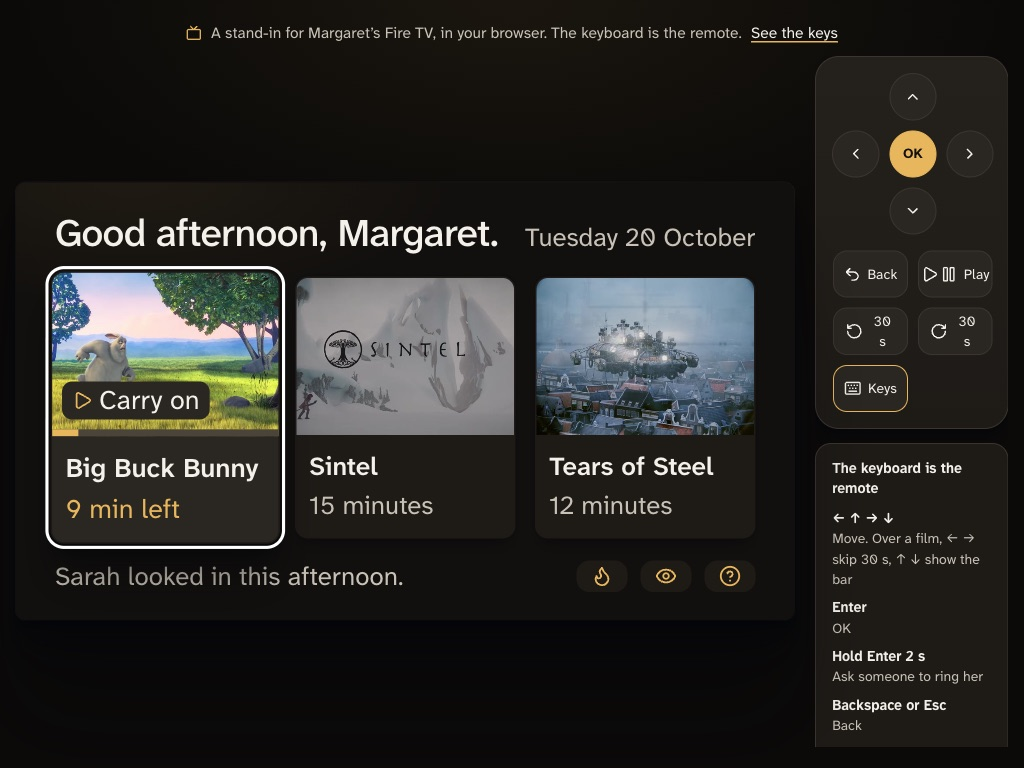
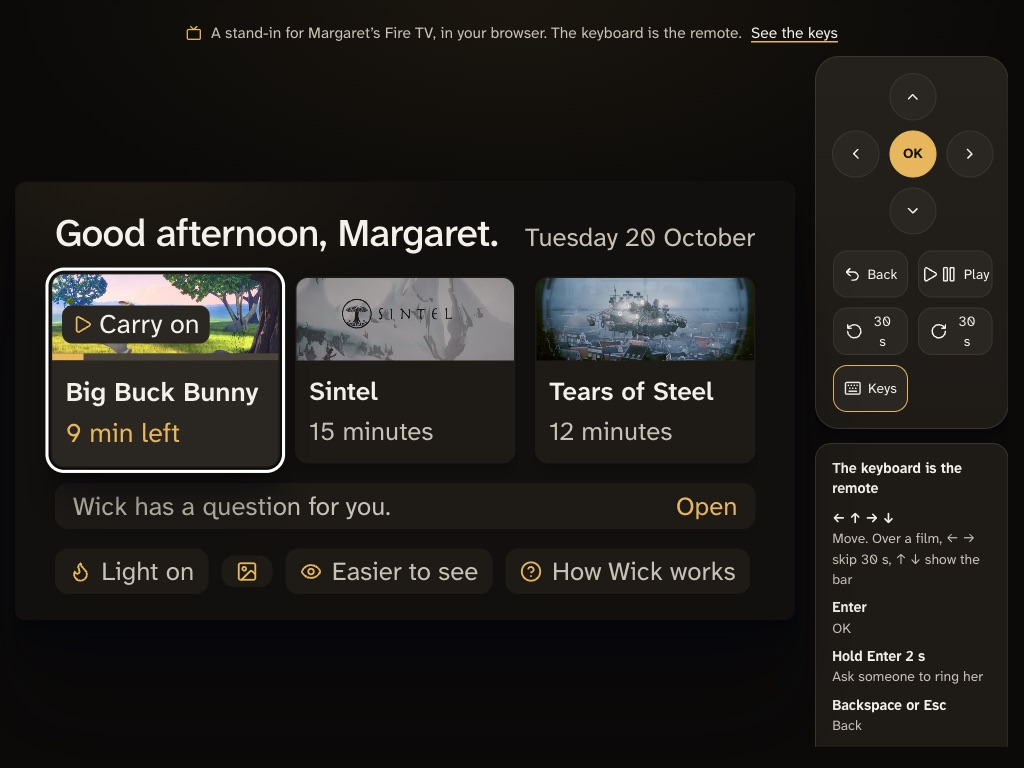
fix(browser-tv): the quiet line under the films is never cut — a row of its own, and the pills give their words way one at a time
Lead review of #145: at 1440 "Sarah looked in this after…" was cut with an
ellipsis, and the light and Easier-to-see pills had lost their words. As the Vega
HomeScreen does on the redesign: the quiet line (who looked in, or what is
waiting) has a row of its own and wraps rather than being cut; the pills have
theirs, each with its words while the row has room, giving them way one at a
time in homeLayout.ts PILL_WORDS_GIVE_WAY's order (mantelpiece, light, Easier to
see, tour) and showing them again with the focus; every pill keeps its
aria-label. Tests: the quiet line's rules carry no ellipsis, clamp or nowrap,
and it sits on its own row above the pills. Screenshots replaced.

Changed region(s): [[0.0312, 0.3438, 0.75, 0.7812], [0.5, 0.7188, 0.7188, 0.7812]]

diff --git a/apps/ops-console/tv.js b/apps/ops-console/tv.js
@@ -676,9 +676,11 @@ function renderHome() {
   }
   screen.appendChild(row);
 
-  // One quiet row under the films: a card that has waited its two showings, or who looked in; then her
-  // mantelpiece, and "Easier to see". Never where the focus starts.
+  // Under the films, as on Vega (HomeScreen.tsx): a quiet line of its own — a card that has waited its two showings,
+  // or who looked in — whose words are never cut; then a row of pills: her light, her mantelpiece, "Easier to see",
+  // How Wick works. Never where the focus starts.
   const quiet = el('div', 'home-quiet');
+  const pills = el('div', 'home-pills');
   const waiting = waitingCard && waitingCard.id !== currentQueuedCard?.id ? waitingCard : null;
   const looked = lookedInLine(now);
   if (waiting) {
@@ -691,44 +693,49 @@ function renderHome() {
     quiet.appendChild(open);
   } else if (looked) {
     quiet.appendChild(el('div', 'home-said', looked));
-  } else {
-    quiet.appendChild(el('div', 'home-said'));
   }
   // With her day at the top, her light joins the other pills: the greeting and the date have that row, as on Vega.
-  if (day && home.light) quiet.appendChild(lightPill(now));
+  if (day && home.light) pills.appendChild(lightPill(now));
   if (Number.isInteger(home.mantel) && home.mantel >= 1) {
     const mantelPill = homeButton('home-pill', 'mantel', openMantel);
     pillWords(mantelPill, 'image', say('home.mantel'));
     mantelPill.setAttribute('aria-label', say('home.mantelLabel'));
-    quiet.appendChild(mantelPill);
+    pills.appendChild(mantelPill);
   }
   const easier = homeButton('home-pill', 'easier', openEasier);
   pillWords(easier, 'eye', easierSay('title'));
   easier.setAttribute('aria-label', easierSay('title'));
-  quiet.appendChild(easier);
+  pills.appendChild(easier);
   // How Wick works: a tour of examples, with the remote alone, and nothing sent (tour/tour.ts).
   const tourPill = homeButton('home-pill', 'tour', openTour);
   pillWords(tourPill, 'circle-question-mark', say('home.tour'));
   tourPill.setAttribute('aria-label', say('home.tourLabel'));
-  quiet.appendChild(tourPill);
-  screen.appendChild(quiet);
+  pills.appendChild(tourPill);
+  if (quiet.children.length > 0) screen.appendChild(quiet);
+  screen.appendChild(pills);
 
   show(screen);
-  fitPills(quiet);
+  fitPills(pills);
   if (day) fitDay(screen, top, panel, day);
 }
 
+/** The order in which the pills give their words way when the row has no room for all of them (homeLayout.ts PILL_WORDS_GIVE_WAY). */
+const PILL_WORDS_GIVE_WAY = ['mantel', 'light', 'easier', 'tour'];
+
 /**
- * The pills give way before the quiet line does (as on Vega, home/homeLayout.ts pillsWithWords): where the row has
- * no room for every pill's words and who looked in, the pills show their icons, and each its words when it has the
- * focus. Every pill keeps its name for a screen reader, and the line its words.
+ * The pills' row, made to fit as on Vega (home/homeLayout.ts pillsWithWords): every pill shows its icon and its
+ * words while the row has room for them; where it has not, one pill at a time — in PILL_WORDS_GIVE_WAY's order —
+ * shows its icon alone, and its words again when it has the focus. Each keeps its name for a screen reader
+ * (aria-label). Nothing is ever cut: a word is shown whole, or the pill is its icon.
  */
 function fitPills(row) {
-  row.classList.remove('tight');
+  const pills = [...row.querySelectorAll('.home-pill')];
+  for (const pill of pills) pill.classList.remove('no-words');
   if (typeof row.scrollWidth !== 'number') return;
-  const line = row.querySelector('.home-said, .home-waiting-line');
-  const cut = (node) => Boolean(node) && node.scrollWidth > node.clientWidth + 1;
-  if (row.scrollWidth > row.clientWidth + 1 || cut(line)) row.classList.add('tight');
+  for (const key of PILL_WORDS_GIVE_WAY) {
+    if (row.scrollWidth <= row.clientWidth + 1) break;
+    pills.find((pill) => pill.dataset.key === key)?.classList.add('no-words');
+  }
 }
 
 /** A film's picture shorter than this share of the screen is a sliver, not a picture (homeLayout.ts POSTER_MIN_DP of 540). */

diff --git a/apps/ops-console/__tests__/tv.test.ts b/apps/ops-console/__tests__/tv.test.ts
@@ -732,6 +732,27 @@ describe('what this page is — said outside her screen, always (DESIGN.md §7)'
   });
 });
 
+describe('the row under the films — the quiet line on its own row, then the pills (as HomeScreen.tsx)', () => {
+  it('puts who looked in on a row of its own, above the pills, and every pill keeps a name for a screen reader', async () => {
+    const tv = await atHome();
+    tv.home({ light: 'on', mantel: 2, today: TODAY, lookedIn: { name: 'Sarah', at: Date.now(), line: 'Sarah looked in this morning.', until: 1_800_000_000_000 + 3_600_000 } });
+    const quiet = tv.screen.querySelector('.home-quiet')!;
+    const pills = tv.screen.querySelector('.home-pills')!;
+    expect(wordsOf(quiet)).toEqual(['Sarah looked in this morning.']);
+    expect(quiet.querySelectorAll('button')).toEqual([]);
+    expect(pills.querySelectorAll('button').map((b) => b.dataset.key)).toEqual(['light', 'mantel', 'easier', 'tour']);
+    for (const pill of pills.querySelectorAll('button')) expect(pill.getAttribute('aria-label'), pill.dataset.key).toMatch(/\w/);
+    const rows = tv.screen.querySelector('.tv-home')!.children;
+    expect(rows.indexOf(quiet)).toBe(rows.indexOf(pills) - 1);
+  });
+
+  it('has no quiet row at all when there is nothing to say', async () => {
+    const tv = await atHome();
+    expect(tv.screen.querySelector('.home-quiet')).toBe(null);
+    expect(tv.screen.querySelector('.home-pills')).not.toBe(null);
+  });
+});
+
 describe('the remote beside the screen — a mouse or a finger presses what the keys press', () => {
   it('has her remote’s six things, each a button with a label: the D-pad and OK, Back, Play/Pause, the two skips — and the keys', () => {
     const tv = tvPage();
@@ -1026,6 +1047,16 @@ describe('tv.css — the television’s floor', () => {
     for (const [fg, bg] of [['ink', 'raised-high'], ['ink-dim', 'raised-high'], ['accent', 'raised'], ['accent', 'raised-high']]) {
       expect(contrastRatio(ordinary[fg]!, ordinary[bg]!), `${fg} on ${bg}`).toBeGreaterThanOrEqual(7);
       expect(contrastRatio(high[fg]!, high[bg]!), `${fg} on ${bg}, higher contrast`).toBeGreaterThanOrEqual(15);
+    }
+  });
+
+  it('never cuts the quiet line under the films: no ellipsis, no clamp, no single line forced — it wraps (DESIGN.md §1)', () => {
+    for (const selector of ['.home-quiet', '.home-said', '.home-waiting', '.home-waiting-line']) {
+      const rules = [...css.matchAll(/(^|\n)([^{}\n][^{}]*)\{([^}]*)\}/g)].filter((m) => m[2]!.split(',').some((s) => s.trim().split(/[\s:]/)[0] === selector || s.includes(`${selector} `) || s.trim().endsWith(selector)));
+      expect(rules.length, selector).toBeGreaterThan(0);
+      for (const rule of rules) {
+        expect(rule[3], selector).not.toMatch(/text-overflow|line-clamp|white-space:\s*nowrap/);
+      }
     }
   });
 

diff --git a/apps/ops-console/tv.css b/apps/ops-console/tv.css
@@ -361,16 +361,10 @@ body {
   color: var(--accent);
 }
 
-/* The quiet row under the films: one thing on the left, and at its right-hand end the pills. */
+/* The quiet line under the films — what is waiting, or who looked in — on a row of its own, its words never cut:
+   a long one takes a second line. */
 .home-quiet {
   display: flex;
-  align-items: center;
-  gap: calc(16 * var(--dp));
-}
-
-/* No room for every pill's words beside the quiet line: the pills give way first, each its icon until it has the focus. */
-.home-quiet.tight .home-pill:not(:focus) .pill-words {
-  display: none;
 }
 
 .home-said {
@@ -378,9 +372,8 @@ body {
   min-width: 0;
   color: var(--ink-dim);
   font-size: var(--body);
-  white-space: nowrap;
-  overflow: hidden;
-  text-overflow: ellipsis;
+  line-height: 1.3;
+  overflow-wrap: anywhere;
 }
 
 .home-waiting {
@@ -405,9 +398,20 @@ body {
   min-width: 0;
   color: var(--ink-dim);
   font-size: var(--body);
-  white-space: nowrap;
-  overflow: hidden;
-  text-overflow: ellipsis;
+  line-height: 1.3;
+  overflow-wrap: anywhere;
+}
+
+/* The pills: her light, her mantelpiece, Easier to see, How Wick works. Where the row has no room for every pill's
+   words, they give way one at a time (tv.js fitPills): that pill is its icon until it has the focus. */
+.home-pills {
+  display: flex;
+  align-items: center;
+  gap: calc(16 * var(--dp));
+}
+
+.home-pill.no-words:not(:focus) .pill-words {
+  display: none;
 }
 
 .home-open {
